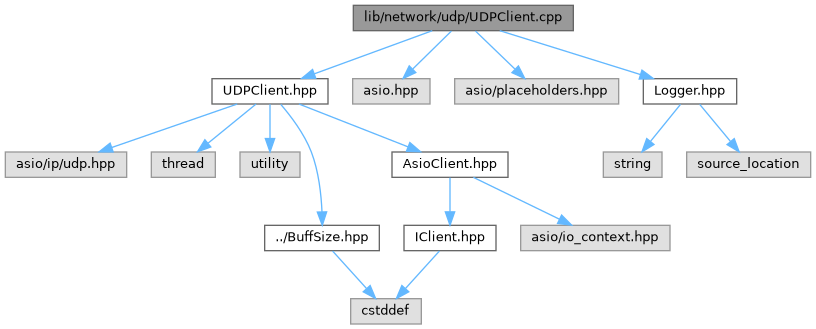
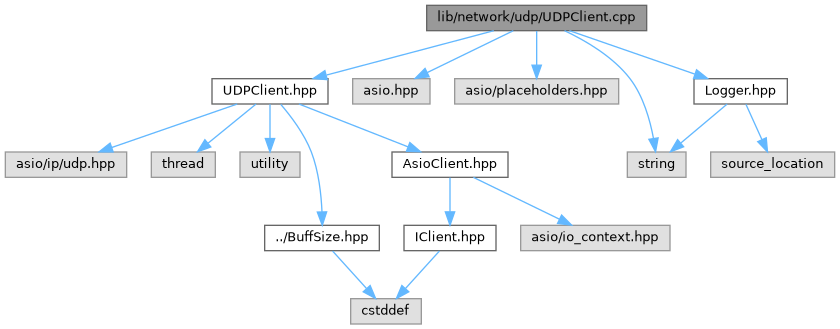
Deploying to gh-pages from @ ManuelR-T/R-Type@4c29144e0145f3a28fd01d6bb4b0c3dd95a9904d 🚀

Changed region(s): [[0.0, 0.0, 0.9804, 1.0]]

diff --git a/d5/d33/UDPClient_8hpp_source.html b/d5/d33/UDPClient_8hpp_source.html
@@ -121,21 +121,24 @@ $(function() {
 <div class="line"><a id="l00071" name="l00071"></a><span class="lineno">   71</span> </div>
 <div class="line"><a id="l00077" name="l00077"></a><span class="lineno">   77</span>    <span class="keywordtype">void</span> _handleRecv(asio::error_code ec, std::size_t bytes);</div>
 <div class="line"><a id="l00078" name="l00078"></a><span class="lineno">   78</span> </div>
-<div class="line"><a id="l00079" name="l00079"></a><span class="lineno">   79</span>    udp::endpoint _endpoint;</div>
-<div class="line"><a id="l00080" name="l00080"></a><span class="lineno">   80</span>    udp::socket _sock;</div>
-<div class="line"><a id="l00081" name="l00081"></a><span class="lineno">   81</span>    std::array&lt;char, BUFF_SIZE&gt; _buff = {0};</div>
-<div class="line"><a id="l00082" name="l00082"></a><span class="lineno">   82</span>    std::thread _recvThread;</div>
-<div class="line"><a id="l00083" name="l00083"></a><span class="lineno">   83</span>    std::function&lt;void(<span class="keyword">const</span> <span class="keywordtype">char</span> *, std::size_t)&gt; _recvHandler; <span class="comment">// ! Do the handler of the responses with this</span></div>
-<div class="line"><a id="l00084" name="l00084"></a><span class="lineno">   84</span>};</div>
-<div class="line"><a id="l00085" name="l00085"></a><span class="lineno">   85</span>} <span class="comment">// namespace ntw</span></div>
+<div class="line"><a id="l00079" name="l00079"></a><span class="lineno">   79</span><span class="preprocessor">#if WIN32</span></div>
+<div class="line"><a id="l00080" name="l00080"></a><span class="lineno">   80</span>    <span class="keywordtype">bool</span> _isInit = <span class="keyword">false</span>;</div>
+<div class="line"><a id="l00081" name="l00081"></a><span class="lineno">   81</span><span class="preprocessor">#endif</span></div>
+<div class="line"><a id="l00082" name="l00082"></a><span class="lineno">   82</span>    udp::endpoint _endpoint;</div>
+<div class="line"><a id="l00083" name="l00083"></a><span class="lineno">   83</span>    udp::socket _sock;</div>
+<div class="line"><a id="l00084" name="l00084"></a><span class="lineno">   84</span>    std::array&lt;char, BUFF_SIZE&gt; _buff = {0};</div>
+<div class="line"><a id="l00085" name="l00085"></a><span class="lineno">   85</span>    std::thread _recvThread;</div>
+<div class="line"><a id="l00086" name="l00086"></a><span class="lineno">   86</span>    std::function&lt;void(<span class="keyword">const</span> <span class="keywordtype">char</span> *, std::size_t)&gt; _recvHandler; <span class="comment">// ! Do the handler of the responses with this</span></div>
+<div class="line"><a id="l00087" name="l00087"></a><span class="lineno">   87</span>};</div>
+<div class="line"><a id="l00088" name="l00088"></a><span class="lineno">   88</span>} <span class="comment">// namespace ntw</span></div>
 <div class="ttc" id="aAsioClient_8hpp_html"><div class="ttname"><a href="../../d4/de2/AsioClient_8hpp.html">AsioClient.hpp</a></div></div>
 <div class="ttc" id="aclassntw_1_1AsioClient_html"><div class="ttname"><a href="../../de/d37/classntw_1_1AsioClient.html">ntw::AsioClient</a></div><div class="ttdoc">AsioClient is a abstract class client that handle network with asio.</div><div class="ttdef"><b>Definition:</b> AsioClient.hpp:21</div></div>
 <div class="ttc" id="aclassntw_1_1AsioClient_html_a4c57a6aa56e5a8e9994845c96d680f32"><div class="ttname"><a href="../../de/d37/classntw_1_1AsioClient.html#a4c57a6aa56e5a8e9994845c96d680f32">ntw::AsioClient::_io</a></div><div class="ttdeci">asio::io_context _io</div><div class="ttdef"><b>Definition:</b> AsioClient.hpp:28</div></div>
 <div class="ttc" id="aclassntw_1_1UDPClient_html"><div class="ttname"><a href="../../d6/d90/classntw_1_1UDPClient.html">ntw::UDPClient</a></div><div class="ttdoc">UDPClient is a class that connects to a udp server, and handle asynchronous operations (read,...</div><div class="ttdef"><b>Definition:</b> UDPClient.hpp:25</div></div>
 <div class="ttc" id="aclassntw_1_1UDPClient_html_a060a678467d1dd195636b9cfd7aefff3"><div class="ttname"><a href="../../d6/d90/classntw_1_1UDPClient.html#a060a678467d1dd195636b9cfd7aefff3">ntw::UDPClient::registerHandler</a></div><div class="ttdeci">void registerHandler(std::function&lt; void(const char *, std::size_t)&gt; handler)</div><div class="ttdef"><b>Definition:</b> UDPClient.hpp:60</div></div>
 <div class="ttc" id="aclassntw_1_1UDPClient_html_a862bcf524f21217734041738714a4425"><div class="ttname"><a href="../../d6/d90/classntw_1_1UDPClient.html#a862bcf524f21217734041738714a4425">ntw::UDPClient::~UDPClient</a></div><div class="ttdeci">~UDPClient() override</div><div class="ttdoc">Destructor of the UDPClient Object.</div><div class="ttdef"><b>Definition:</b> UDPClient.hpp:38</div></div>
-<div class="ttc" id="aclassntw_1_1UDPClient_html_aa84d7e1d450f2d11dd3c90cd6b10da85"><div class="ttname"><a href="../../d6/d90/classntw_1_1UDPClient.html#aa84d7e1d450f2d11dd3c90cd6b10da85">ntw::UDPClient::send</a></div><div class="ttdeci">void send(const char *data, std::size_t size) override</div><div class="ttdoc">Send a data specified in param data of size param size to the endpoint variable member.</div><div class="ttdef"><b>Definition:</b> UDPClient.cpp:35</div></div>
-<div class="ttc" id="aclassntw_1_1UDPClient_html_afc152832cbde1ec063b9a47475474ef6"><div class="ttname"><a href="../../d6/d90/classntw_1_1UDPClient.html#afc152832cbde1ec063b9a47475474ef6">ntw::UDPClient::run</a></div><div class="ttdeci">void run() override</div><div class="ttdoc">Run the io_context variable member of this class and the asio_run function that is a recursive loop o...</div><div class="ttdef"><b>Definition:</b> UDPClient.cpp:44</div></div>
+<div class="ttc" id="aclassntw_1_1UDPClient_html_aa84d7e1d450f2d11dd3c90cd6b10da85"><div class="ttname"><a href="../../d6/d90/classntw_1_1UDPClient.html#aa84d7e1d450f2d11dd3c90cd6b10da85">ntw::UDPClient::send</a></div><div class="ttdeci">void send(const char *data, std::size_t size) override</div><div class="ttdoc">Send a data specified in param data of size param size to the endpoint variable member.</div><div class="ttdef"><b>Definition:</b> UDPClient.cpp:41</div></div>
+<div class="ttc" id="aclassntw_1_1UDPClient_html_afc152832cbde1ec063b9a47475474ef6"><div class="ttname"><a href="../../d6/d90/classntw_1_1UDPClient.html#afc152832cbde1ec063b9a47475474ef6">ntw::UDPClient::run</a></div><div class="ttdeci">void run() override</div><div class="ttdoc">Run the io_context variable member of this class and the asio_run function that is a recursive loop o...</div><div class="ttdef"><b>Definition:</b> UDPClient.cpp:50</div></div>
 <div class="ttc" id="anamespacentw_html"><div class="ttname"><a href="../../d8/da6/namespacentw.html">ntw</a></div><div class="ttdef"><b>Definition:</b> AsioClient.hpp:13</div></div>
 </div><!-- fragment --></div><!-- contents -->
 <!-- start footer part -->

diff --git a/d1/d8a/UDPClient_8cpp.html b/d1/d8a/UDPClient_8cpp.html
@@ -79,17 +79,19 @@ $(function() {
 <div class="textblock"><code>#include &quot;<a class="el" href="../../d5/d33/UDPClient_8hpp_source.html">UDPClient.hpp</a>&quot;</code><br />
 <code>#include &lt;asio.hpp&gt;</code><br />
 <code>#include &lt;asio/placeholders.hpp&gt;</code><br />
+<code>#include &lt;string&gt;</code><br />
 <code>#include &quot;<a class="el" href="../../d9/d11/Logger_8hpp_source.html">Logger.hpp</a>&quot;</code><br />
 </div><div class="textblock"><div class="dynheader">
 Include dependency graph for UDPClient.cpp:</div>
 <div class="dyncontent">
 <div class="center"><img src="../../d3/db9/UDPClient_8cpp__incl.png" border="0" usemap="#alib_2network_2udp_2UDPClient_8cpp" alt=""/></div>
 <map name="alib_2network_2udp_2UDPClient_8cpp" id="alib_2network_2udp_2UDPClient_8cpp">
-<area shape="rect" title=" " alt="" coords="353,5,573,31"/>
+<area shape="rect" title=" " alt="" coords="427,5,647,31"/>
 <area shape="rect" href="../../d5/d33/UDPClient_8hpp.html" title=" " alt="" coords="212,79,328,104"/>
 <area shape="rect" title=" " alt="" coords="353,79,430,104"/>
 <area shape="rect" title=" " alt="" coords="455,79,619,104"/>
-<area shape="rect" href="../../d9/d11/Logger_8hpp.html" title=" " alt="" coords="643,79,737,104"/>
+<area shape="rect" title=" " alt="" coords="627,152,686,177"/>
+<area shape="rect" href="../../d9/d11/Logger_8hpp.html" title=" " alt="" coords="694,79,787,104"/>
 <area shape="rect" title=" " alt="" coords="5,152,127,177"/>
 <area shape="rect" title=" " alt="" coords="151,152,215,177"/>
 <area shape="rect" title=" " alt="" coords="240,152,300,177"/>
@@ -98,8 +100,7 @@ Include dependency graph for UDPClient.cpp:</div>
 <area shape="rect" title=" " alt="" coords="351,299,421,324"/>
 <area shape="rect" href="../../d3/d69/IClient_8hpp.html" title=" " alt="" coords="404,225,496,251"/>
 <area shape="rect" title=" " alt="" coords="521,225,670,251"/>
-<area shape="rect" title=" " alt="" coords="603,152,662,177"/>
-<area shape="rect" title=" " alt="" coords="687,152,811,177"/>
+<area shape="rect" title=" " alt="" coords="711,152,835,177"/>
 </map>
 </div>
 </div></div><!-- contents -->
